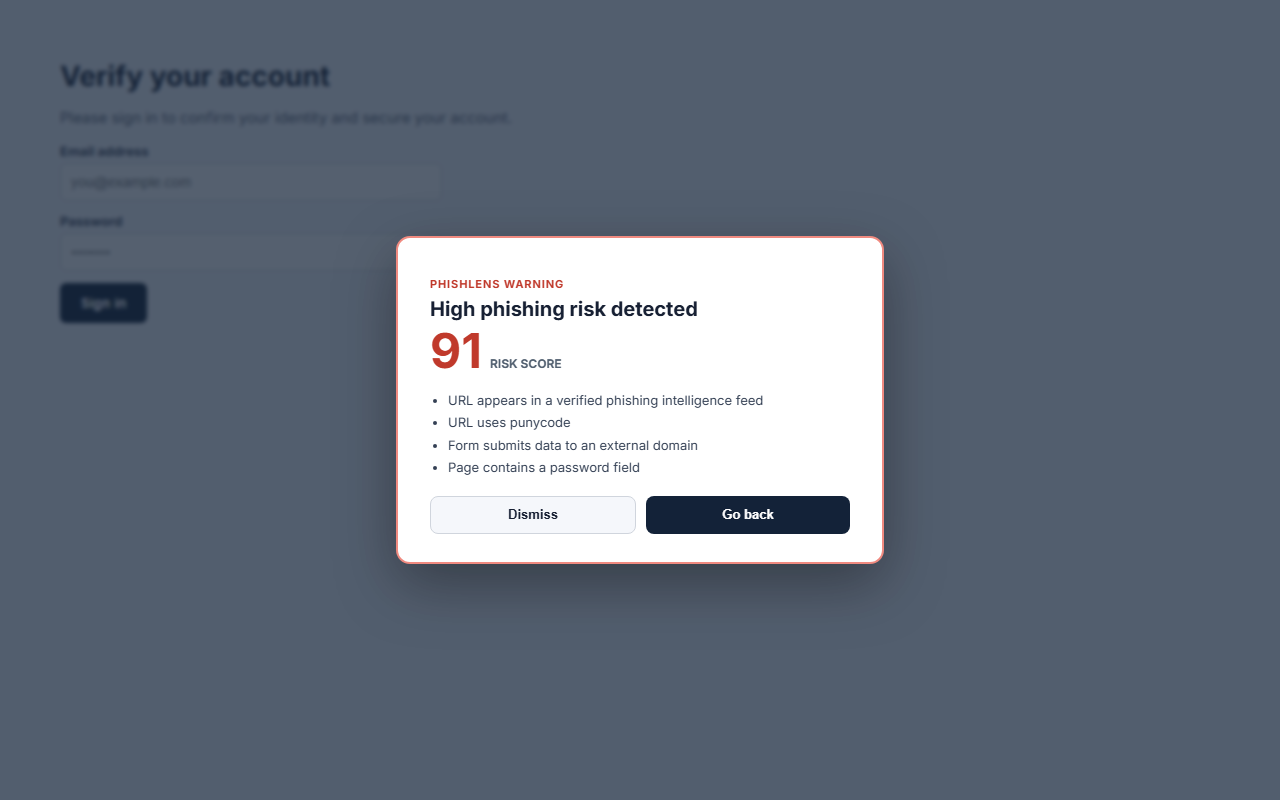
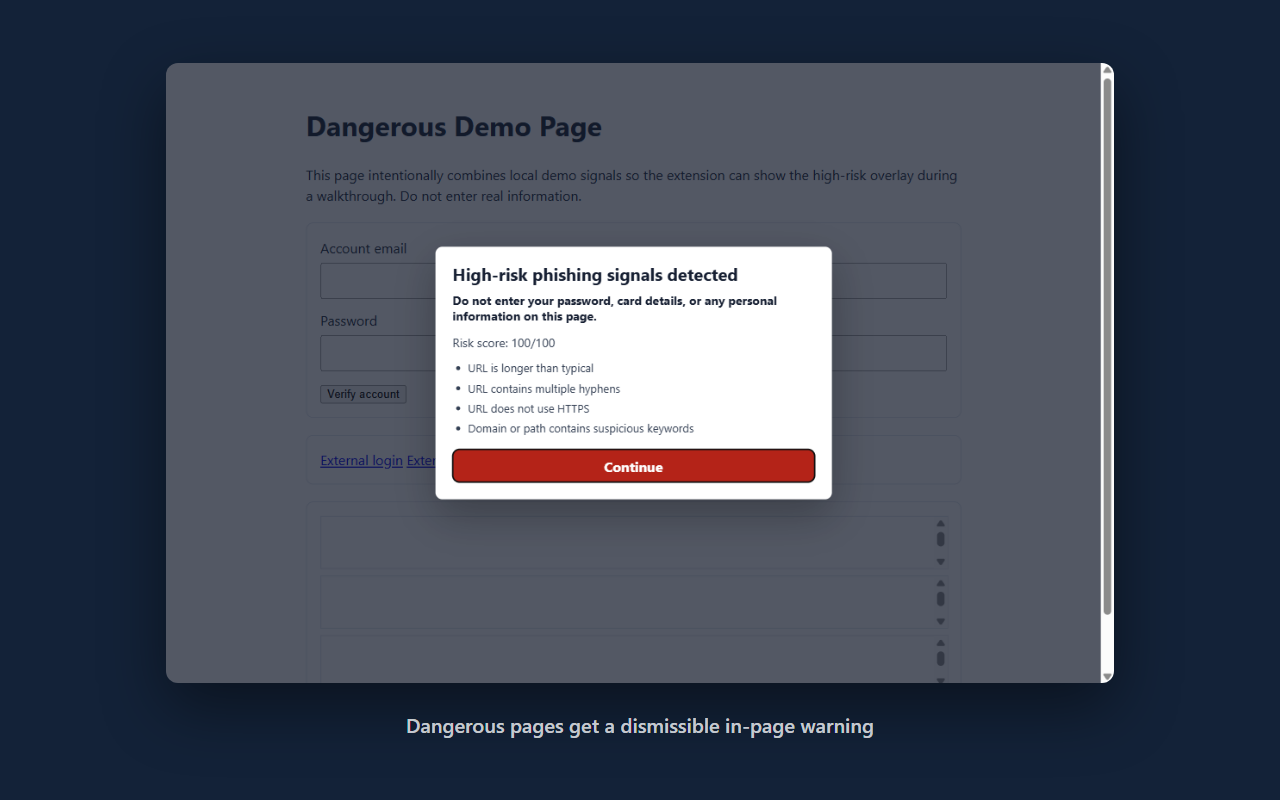
docs(screenshots): regenerate every screenshot from the fixed build
All README and Chrome Web Store screenshots are now captured from the built
extension against the local demo pages with record-demo.mjs --docs and framed
with take-screenshots.mjs. Every capture got its final state on the first try,
with no Refresh:

- safe.html: Safe 8, backend enriched
- suspicious.html: Suspicious 48 (new; no demo page produced it before)
- the dangerous page: Dangerous 100, and the overlay at 100/100
- backend unreachable: Safe 8, the same score as with the backend, shown as
  "Backend unavailable" with "Heuristic" confidence

The five store images (01-05) replace the old hand-written mockups.

The README screenshot table gains the Suspicious column. The hero and the
demo video still show the 2026-09-25 recording (Dangerous 74), so their
caption now says the current build rates that page 95 and why; re-recording
needs the Recordly kit. The PayPal lesson records that the real sign-in page
now scores Safe 20.

record-demo.mjs hides scrollbars before capturing: the capture window is
exactly the popup's 380px, so a vertical scrollbar also forced a horizontal
one that the real toolbar popup never shows.

diff --git a/README.md b/README.md
@@ -13,7 +13,7 @@ It combines local URL heuristics, privacy-preserving DOM signals, optional Phish
 
 ![PhishLens on a cloned PayPal login at paypal-verify-account.net: the toolbar icon shows a red badge, the popup rates the page Dangerous 74/100 with backend enrichment, and the in-page warning lists the reasons and tells the user not to enter a password](docs/screenshots/hero-phishing-detection.png)
 
-_PhishLens flagging a cloned PayPal login on a look-alike domain (`paypal-verify-account.net`) and explaining why, both in the popup and in the in-page warning. Captured from the recording below; both sites are local demo pages and the domain is not registered. End-to-end walkthrough, from a phishing email to the in-page warning:_
+_PhishLens flagging a cloned PayPal login on a look-alike domain (`paypal-verify-account.net`) and explaining why, both in the popup and in the in-page warning. Captured from the recording below; both sites are local demo pages and the domain is not registered. The recording predates two scoring fixes described in [Lessons Learned](#lessons-learned): the current build rates the same page Dangerous 95, because the backend now builds on the scaled local score and the retrained ML model no longer adds +12 here. End-to-end walkthrough, from a phishing email to the in-page warning:_
 
 ![PhishLens end-to-end demo: a fake "PayPal Security" email links to a cloned login on paypal-verify-account.net, the PhishLens toolbar icon turns red, the popup rates the page Dangerous 74/100 with a per-category breakdown (URL 32/35, page structure 30/30, ML +12), and a warning overlay covers the page](docs/screenshots/demo.webp)
 
@@ -48,15 +48,17 @@ python ml/datasets/build_dataset.py && python ml/train_model.py
 
 ## Screenshots
 
-The popup on the local demo pages (`demo/pages/`), captured with `extension/scripts/record-demo.mjs`.
+The popup on the local demo pages (`demo/pages/`), captured from the built extension with `node extension/scripts/record-demo.mjs --docs`.
 
-| Safe page (backend-enriched) | Dangerous page (backend-enriched) | Local-only mode (no backend response) |
-|---|---|---|
-| ![Safe demo page: Safe 5, backend enriched, the only URL signal is the lack of HTTPS](docs/screenshots/popup-safe.png) | ![Dangerous demo page: Dangerous 94, backend enriched, with URL and page-structure signals and the demo threat source](docs/screenshots/popup-dangerous.png) | ![Safe demo page without a backend response: Safe 8, confidence shown as "Heuristic" instead of a percentage, backend marked Local only](docs/screenshots/popup-local-only.png) |
+| Safe page | Suspicious page | Dangerous page | Backend unavailable |
+|---|---|---|---|
+| ![Safe demo page: Safe 8, backend enriched, the only URL signal is the lack of HTTPS](docs/screenshots/popup-safe.png) | ![Suspicious demo page: Suspicious 48, backend enriched, URL 5/35 for plain HTTP and page structure 26/30 for a sign-in form with a password field that posts to another domain](docs/screenshots/popup-suspicious.png) | ![Dangerous demo page: Dangerous 100, backend enriched, URL 24/35 and page structure 30/30, plus the demo threat source](docs/screenshots/popup-dangerous.png) | ![Safe demo page with the backend unreachable: Safe 8, the same local score, confidence shown as "Heuristic" instead of a percentage, and a banner listing the checks that did not run](docs/screenshots/popup-local-only.png) |
+
+With the backend unreachable, the safe page keeps the same score (8). The local score is the base the backend adds to, so the two only differ by what the backend finds.
 
 The warning overlay on the dangerous demo page. That page also matches the localhost-only demo threat source (see [Local Demo](#local-demo)):
 
-![Danger overlay: "High-risk phishing signals detected", risk score 94/100, the top reasons, and a Continue button](docs/screenshots/danger-overlay.png)
+![Danger overlay: "High-risk phishing signals detected", risk score 100/100, the top reasons, and a Continue button](docs/screenshots/danger-overlay.png)
 
 ## Architecture
 
@@ -354,7 +356,8 @@ informative than the fact that the code is now clean:
   subdomain" as phishing. It showed up as a real false positive while recording the demo: the
   real PayPal sign-in page scored Suspicious 36, and SHAP named the cause, "number of subdomains,
   number of dots". The `www.` prefix alone swung the ML adjustment from −10 to +20. Fixed by not
-  counting `www` as a subdomain and by giving legitimate URLs realistic hosts. Precision fell from
+  counting `www` as a subdomain and by giving legitimate URLs realistic hosts; the same PayPal
+  page now scores Safe 20 (page structure 16/30, ML −5). Precision fell from
   99.0% to 78.5%, and a temporal check that had looked reassuring (0.91) fell to 0.67. The
   near-perfect numbers had been measuring the dataset, not phishing. Detailed in
   [docs/ml-methodology.md](docs/ml-methodology.md#known-limitation-found-and-fixed-subdomain-separability-bias).
